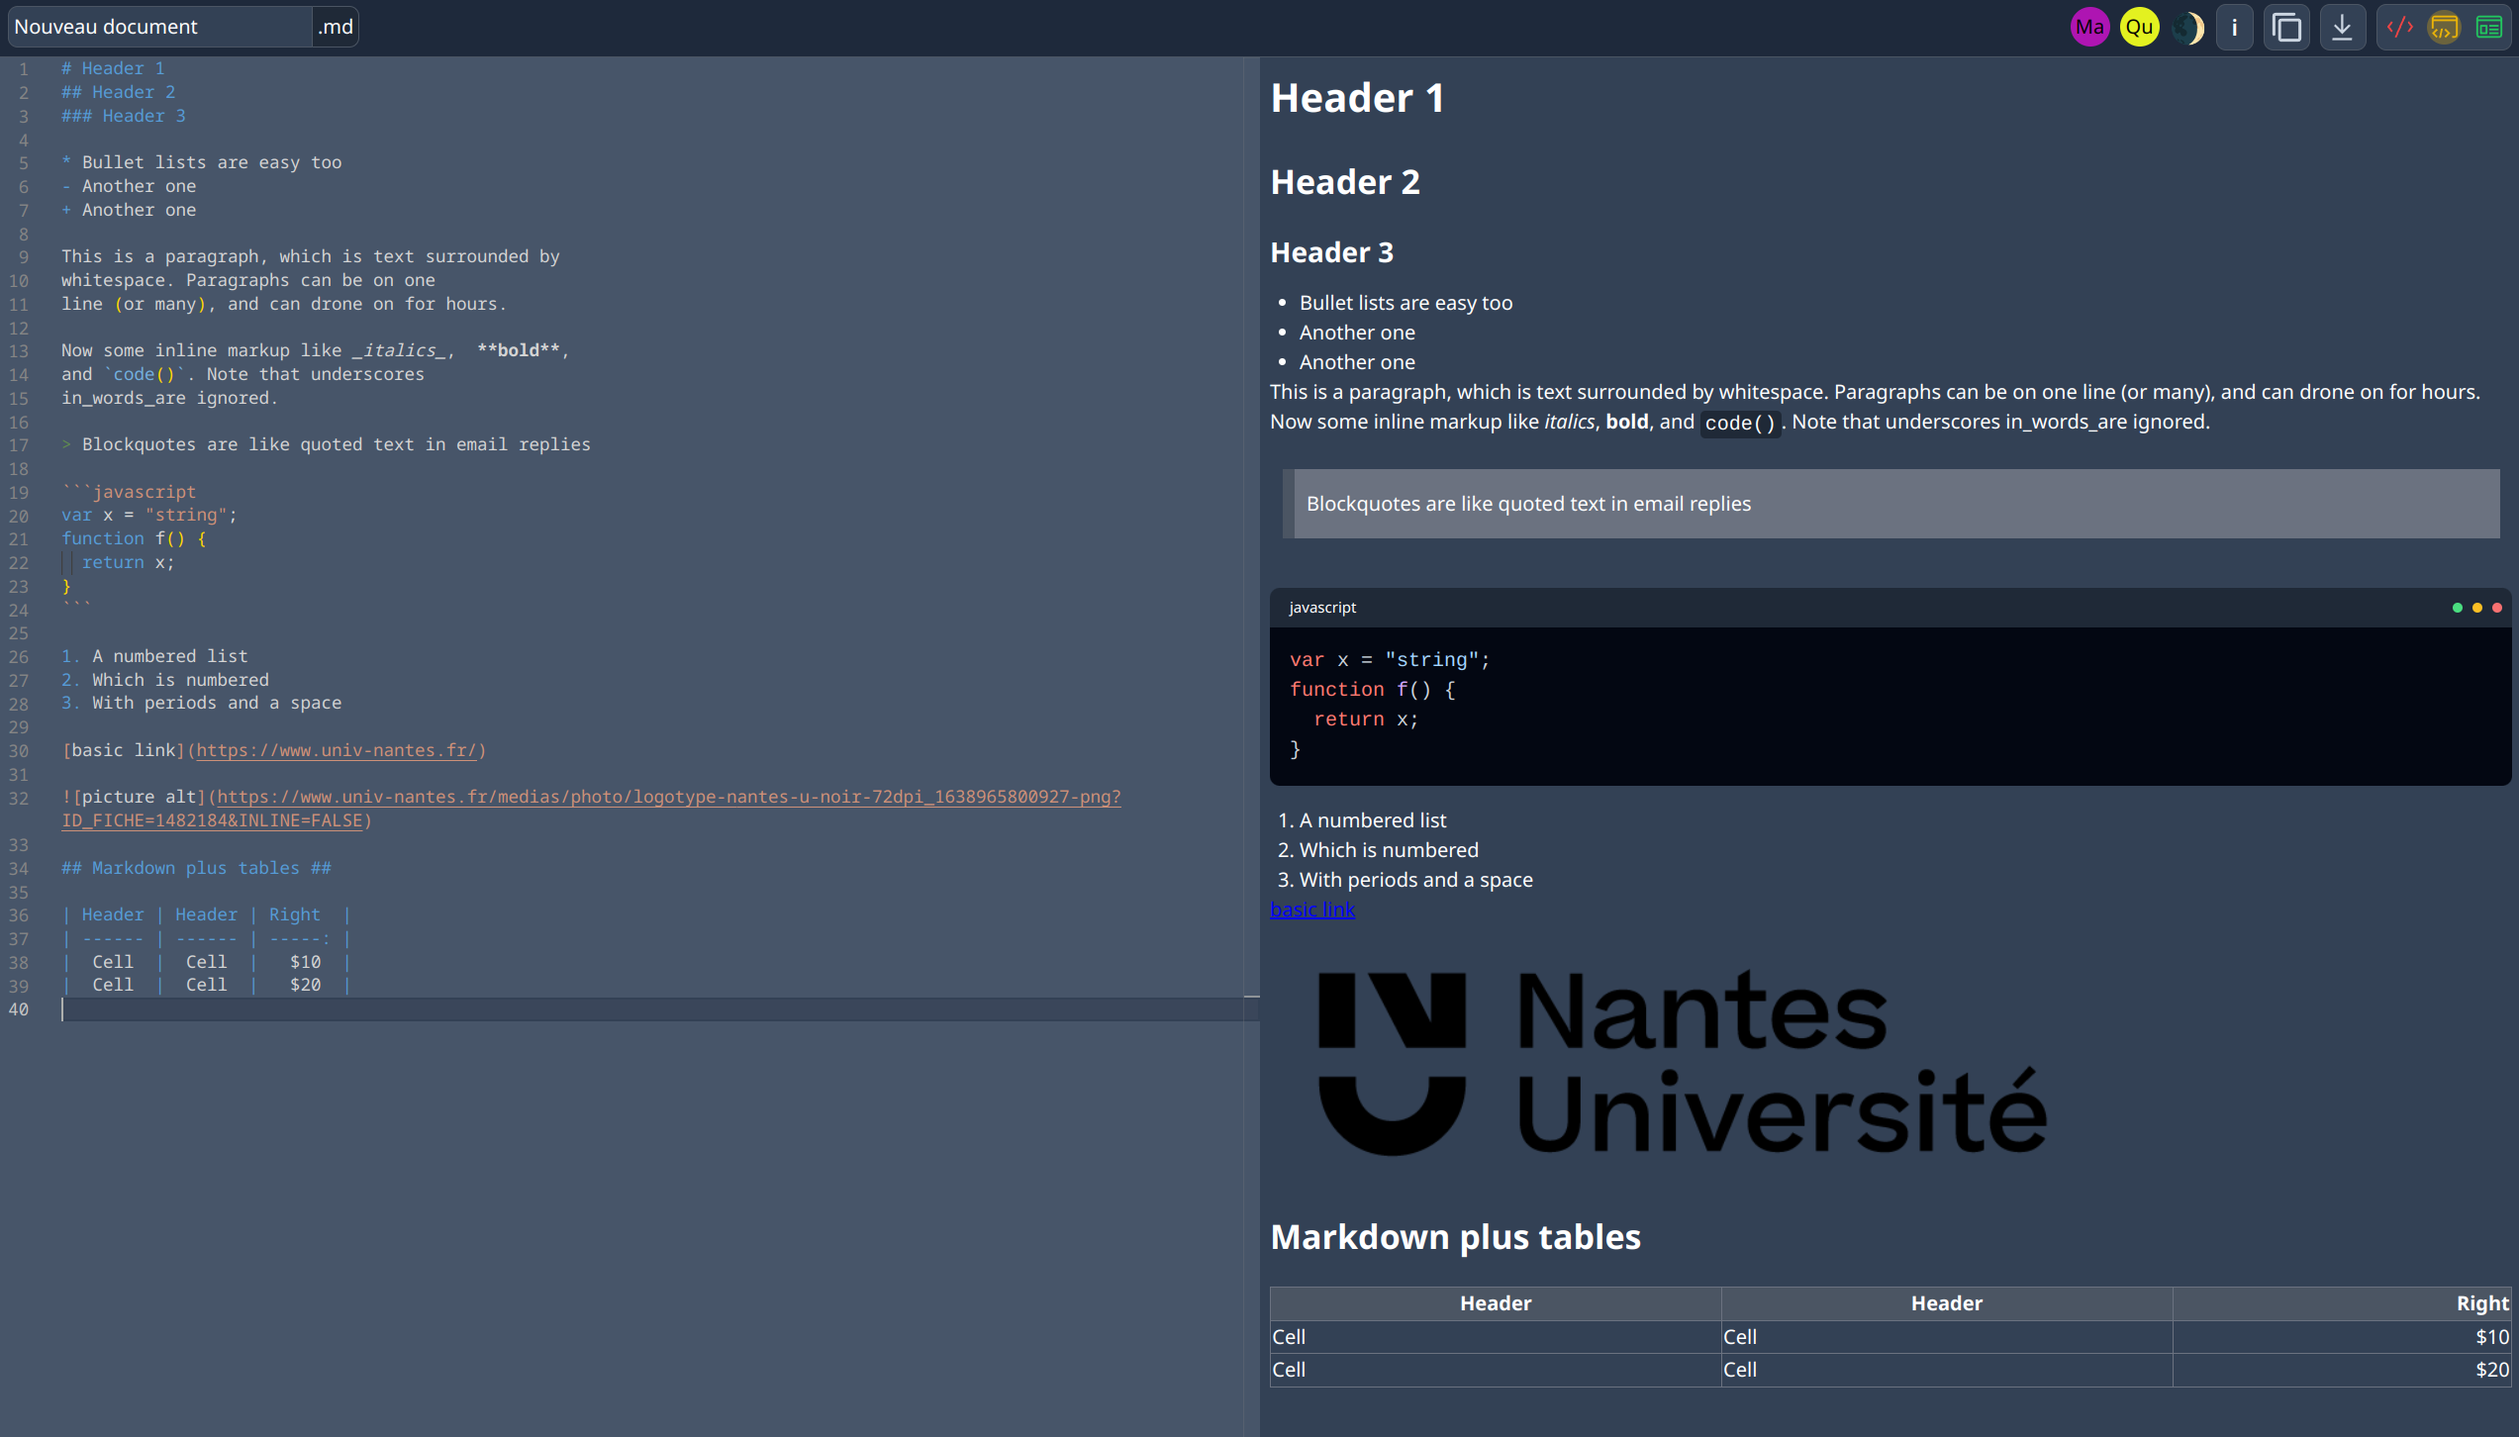
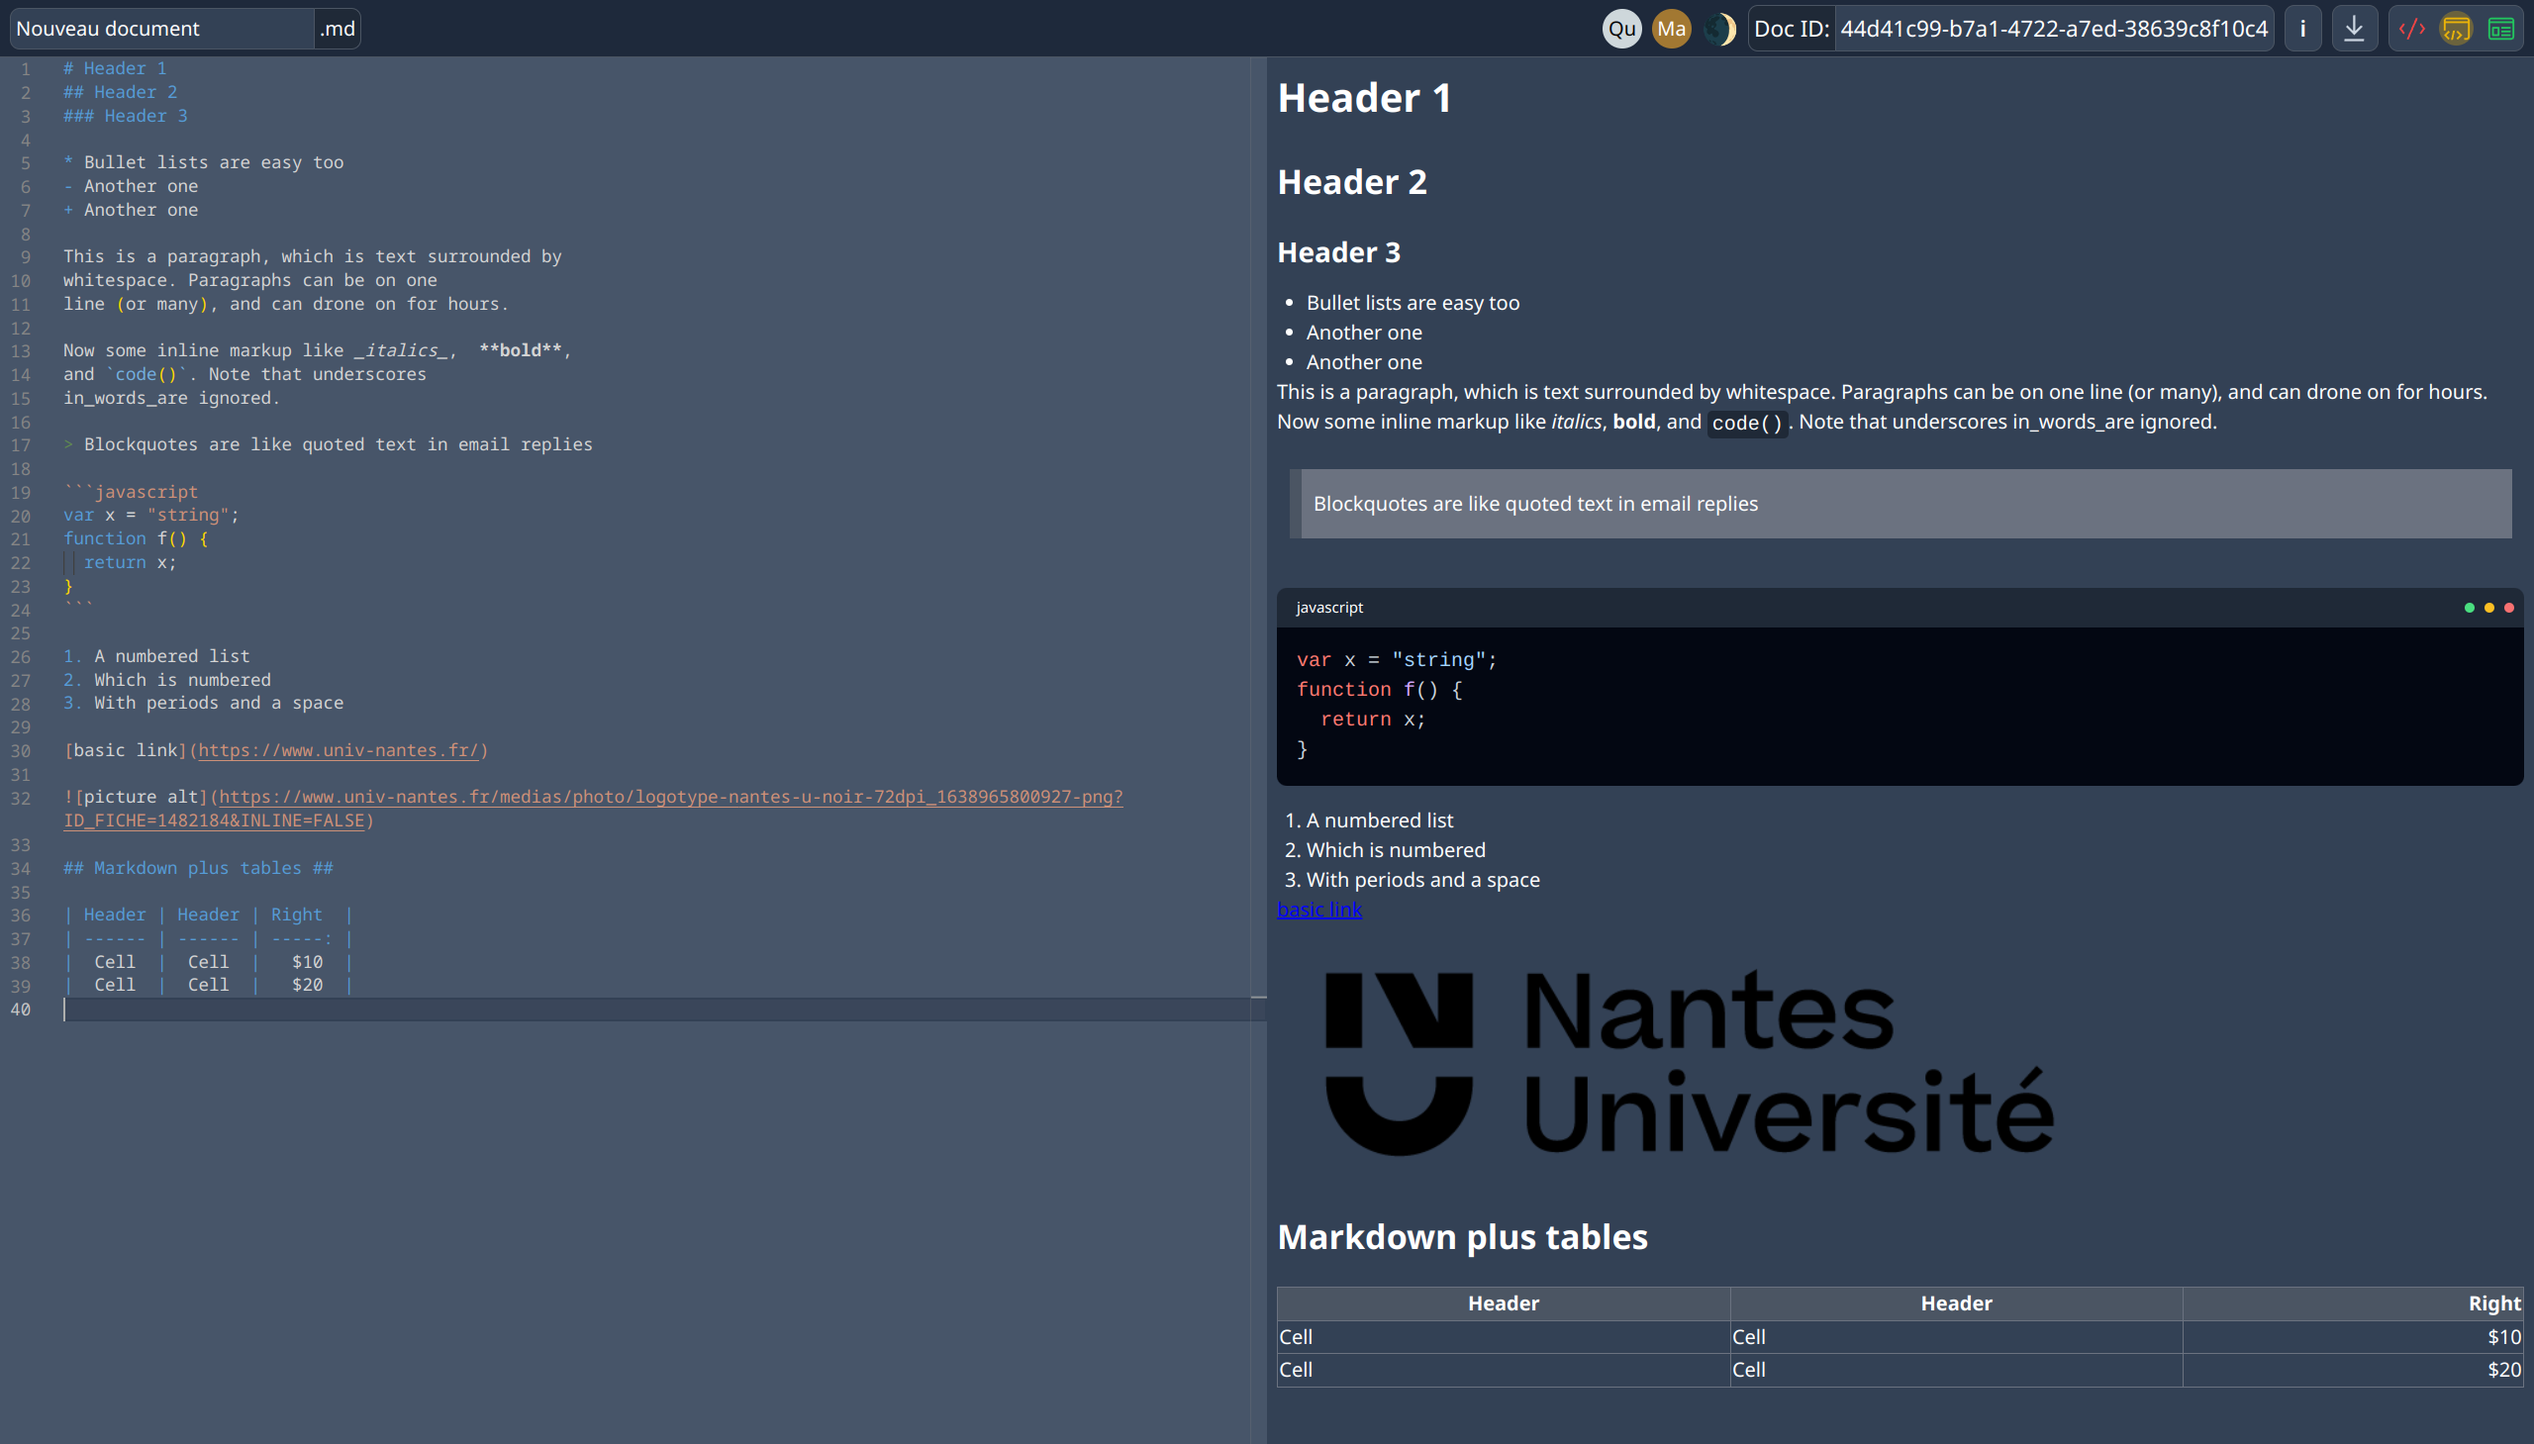
Updated page layout and README documentation.

diff --git a/src/routes/+page.svelte b/src/routes/+page.svelte
@@ -333,28 +333,6 @@
     }
 
     /**
-     * Copy text to clipboard.
-     * Since the clipboard API requires a HTTPS connection, we have to use this unsecure hack.
-     * @param text The text to copy to the clipboard
-     */
-    const unsecureClipboardCopy = (text: string) => {
-        const textArea = document.createElement('textarea');
-        textArea.value = text;
-        textArea.style.position = 'fixed';
-        textArea.style.top = '0';
-        textArea.style.left = '0';
-        document.body.prepend(textArea);
-        textArea.select();
-        try {
-            document.execCommand('copy');
-        } catch (err) {
-            console.error('Unable to copy', err);
-        } finally {
-            textArea.remove();
-        }
-    }
-
-    /**
      * Fetch the API to create a new document.
      * @param docName The name of the document.
      * @param userName The name of the user.
@@ -443,8 +421,8 @@
         </dialog>
     {/if}
 
-    <div class="flex py-6 px-2 h-8 items-center justify-between bg-blue-200 dark:bg-slate-800 border-t border-b border-gray-300 dark:border-gray-600">
-        <div class="flex">
+    <div class="flex px-2 py-1 h-12 items-center justify-between bg-blue-200 dark:bg-slate-800 border-t border-b border-gray-300 dark:border-gray-600">
+        <div class="flex mr-2">
             <input class="p-1 bg-blue-50 dark:bg-slate-700 rounded-l-lg border border-slate-400 dark:border-gray-600 dark:placeholder-white dark:text-white outline-none focus:ring-1 focus:ring-blue-400 focus:dark:ring-blue-700 z-10 transition-all duration-150" placeholder="File name" bind:value={docName} on:click={() => oldDocName = docName} id="doc-name-input"/>
             <p class="p-1 bg-blue-100 dark:bg-gray-800 rounded-r-lg border-y border-r border-slate-400 dark:border-gray-600 dark:text-white select-none">.md</p>
         </div>
@@ -455,25 +433,19 @@
                 {/each}
             </div>
             <span class="toggle dark:text-white flex items-center justify-center"></span>
+            <div class="flex lg:text-lg text-sm h-full whitespace-nowrap">
+                <p class="flex items-center p-1 h-full bg-blue-100 dark:bg-gray-800 rounded-l-lg border-y border-l border-slate-400 dark:border-gray-600 dark:text-white select-none">
+                    Doc ID:
+                </p>
+                <p class="flex items-center p-1 h-full bg-blue-50 dark:bg-slate-700 rounded-r-lg border border-slate-400 dark:border-gray-600 dark:placeholder-white dark:text-white">
+                    {documentAnswer?.document.id ? documentAnswer.document.id : 'No document ID'}
+                </p>
+            </div>
             <div class="group relative flex justify-center whitespace-nowrap py-1 px-3 dark:text-white bg-blue-100 dark:bg-slate-700 rounded-lg border border-slate-400 dark:border-gray-600">
                 <p class="font-semibold text-lg select-none">i</p>
                 <div class="group-hover:block hidden absolute top-12 p-2 bg-blue-100 dark:bg-slate-600 rounded-lg border border-gray-300 dark:border-gray-500 z-50">
                     <p class="">Number of words: {nbOfWords}</p>
                     <p class="">Number of characters: {nbOfChars}</p>
-                </div>
-            </div>
-            <div class="group relative flex justify-center whitespace-nowrap">
-                <button
-                    class="hover:bg-blue-50 p-1 bg-blue-100 dark:bg-slate-700 dark:fill-slate-300 border rounded-lg active:scale-90 border-slate-400 dark:border-gray-600 transition-all duration-100"
-                    on:click={() => {
-                        unsecureClipboardCopy(documentAnswer.document.id)
-                        toast.push('Document id copied to clipboard');
-                    }}
-                >
-                    <svg class="h-7 select-none" viewBox="0 0 24 24"> <path d="M 4 2 C 2.895 2 2 2.895 2 4 L 2 17 C 2 17.552 2.448 18 3 18 C 3.552 18 4 17.552 4 17 L 4 4 L 17 4 C 17.552 4 18 3.552 18 3 C 18 2.448 17.552 2 17 2 L 4 2 z M 8 6 C 6.895 6 6 6.895 6 8 L 6 20 C 6 21.105 6.895 22 8 22 L 20 22 C 21.105 22 22 21.105 22 20 L 22 8 C 22 6.895 21.105 6 20 6 L 8 6 z M 8 8 L 20 8 L 20 20 L 8 20 L 8 8 z"/></svg>
-                </button>
-                <div class="group-hover:block hidden absolute top-12 p-2 bg-blue-100 dark:bg-slate-600 rounded-lg border border-gray-300 dark:border-gray-500 z-50">
-                    <p class="dark:text-white">Copy document id</p>
                 </div>
             </div>
             <div class="group relative flex justify-center whitespace-nowrap">

diff --git a/src/routes/IconBadge.svelte b/src/routes/IconBadge.svelte
@@ -1,9 +1,12 @@
 <script lang="ts">
     export let name: string;
-    //random color
+
+    // Generate a random color for the avatar, and determine whether the text should be black or white
     let color: string = "#" + Math.floor(Math.random()*16777215).toString(16);
-    // determine if text should be white or black from background color
-    let textColor = parseInt(color.substring(1,7),16) > 0xffffff/2 ? "text-black" : "text-white";
+    let r = parseInt(color.slice(1,3), 16);
+    let g = parseInt(color.slice(3,5), 16);
+    let b = parseInt(color.slice(5,7), 16);
+    let textColor: string = (r*0.299 + g*0.587 + b*0.114) > 186 ? "text-black" : "text-white";
 </script>
 
 <div class="group relative flex justify-center items-center whitespace-nowrap rounded-full h-full w-8 z-50" style="background-color: {color}">

diff --git a/README.md b/README.md
@@ -80,7 +80,7 @@ Parmi les fonctionnalités de l'application, nous avons implémenté :
 - Thème d'application sombre et clair, adapté au thème du système de l'utilisateur.
 - L'affichage de la liste des utilisateurs connectés.
 - L'affichage des informations du document (nombre de caractères et nombre de mots).
-- La possibilité de copier l'id du document dans le presse-papiers, pour le partager avec d'autres utilisateurs.
+- L'affichage de l'ID du document, pour le partager avec d'autres utilisateurs.
 - La possibilité de télécharger le document au format Markdown.
 - La possibilité de changer de vue entre :
   - L'éditeur Markdown
